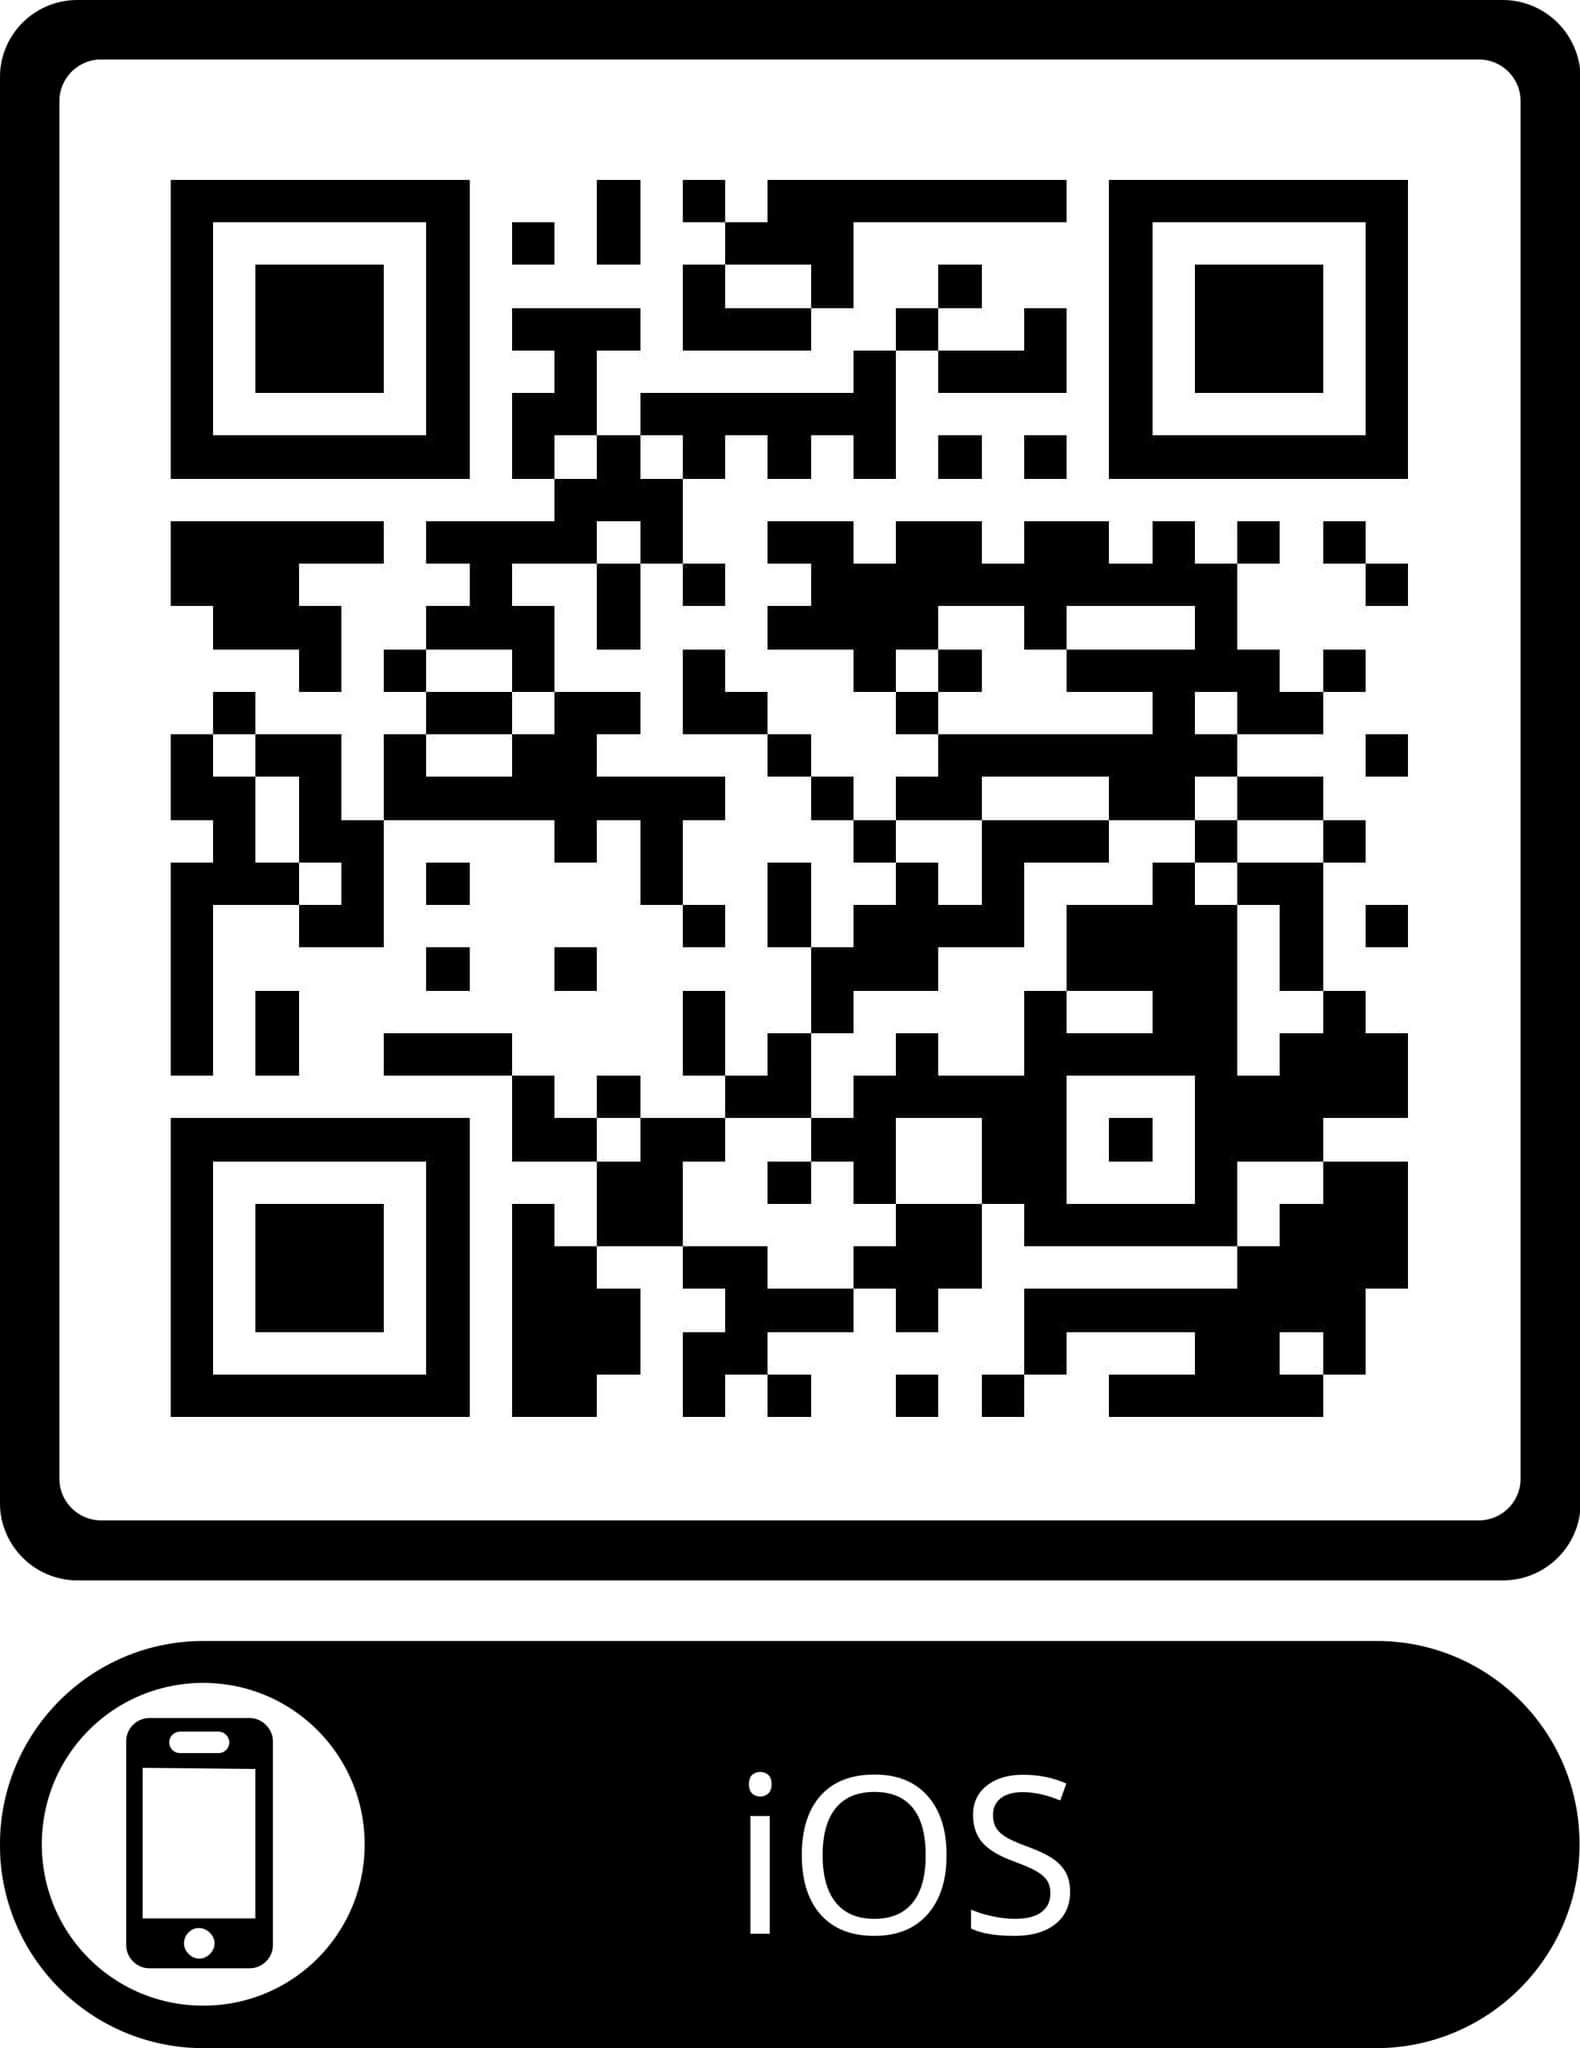
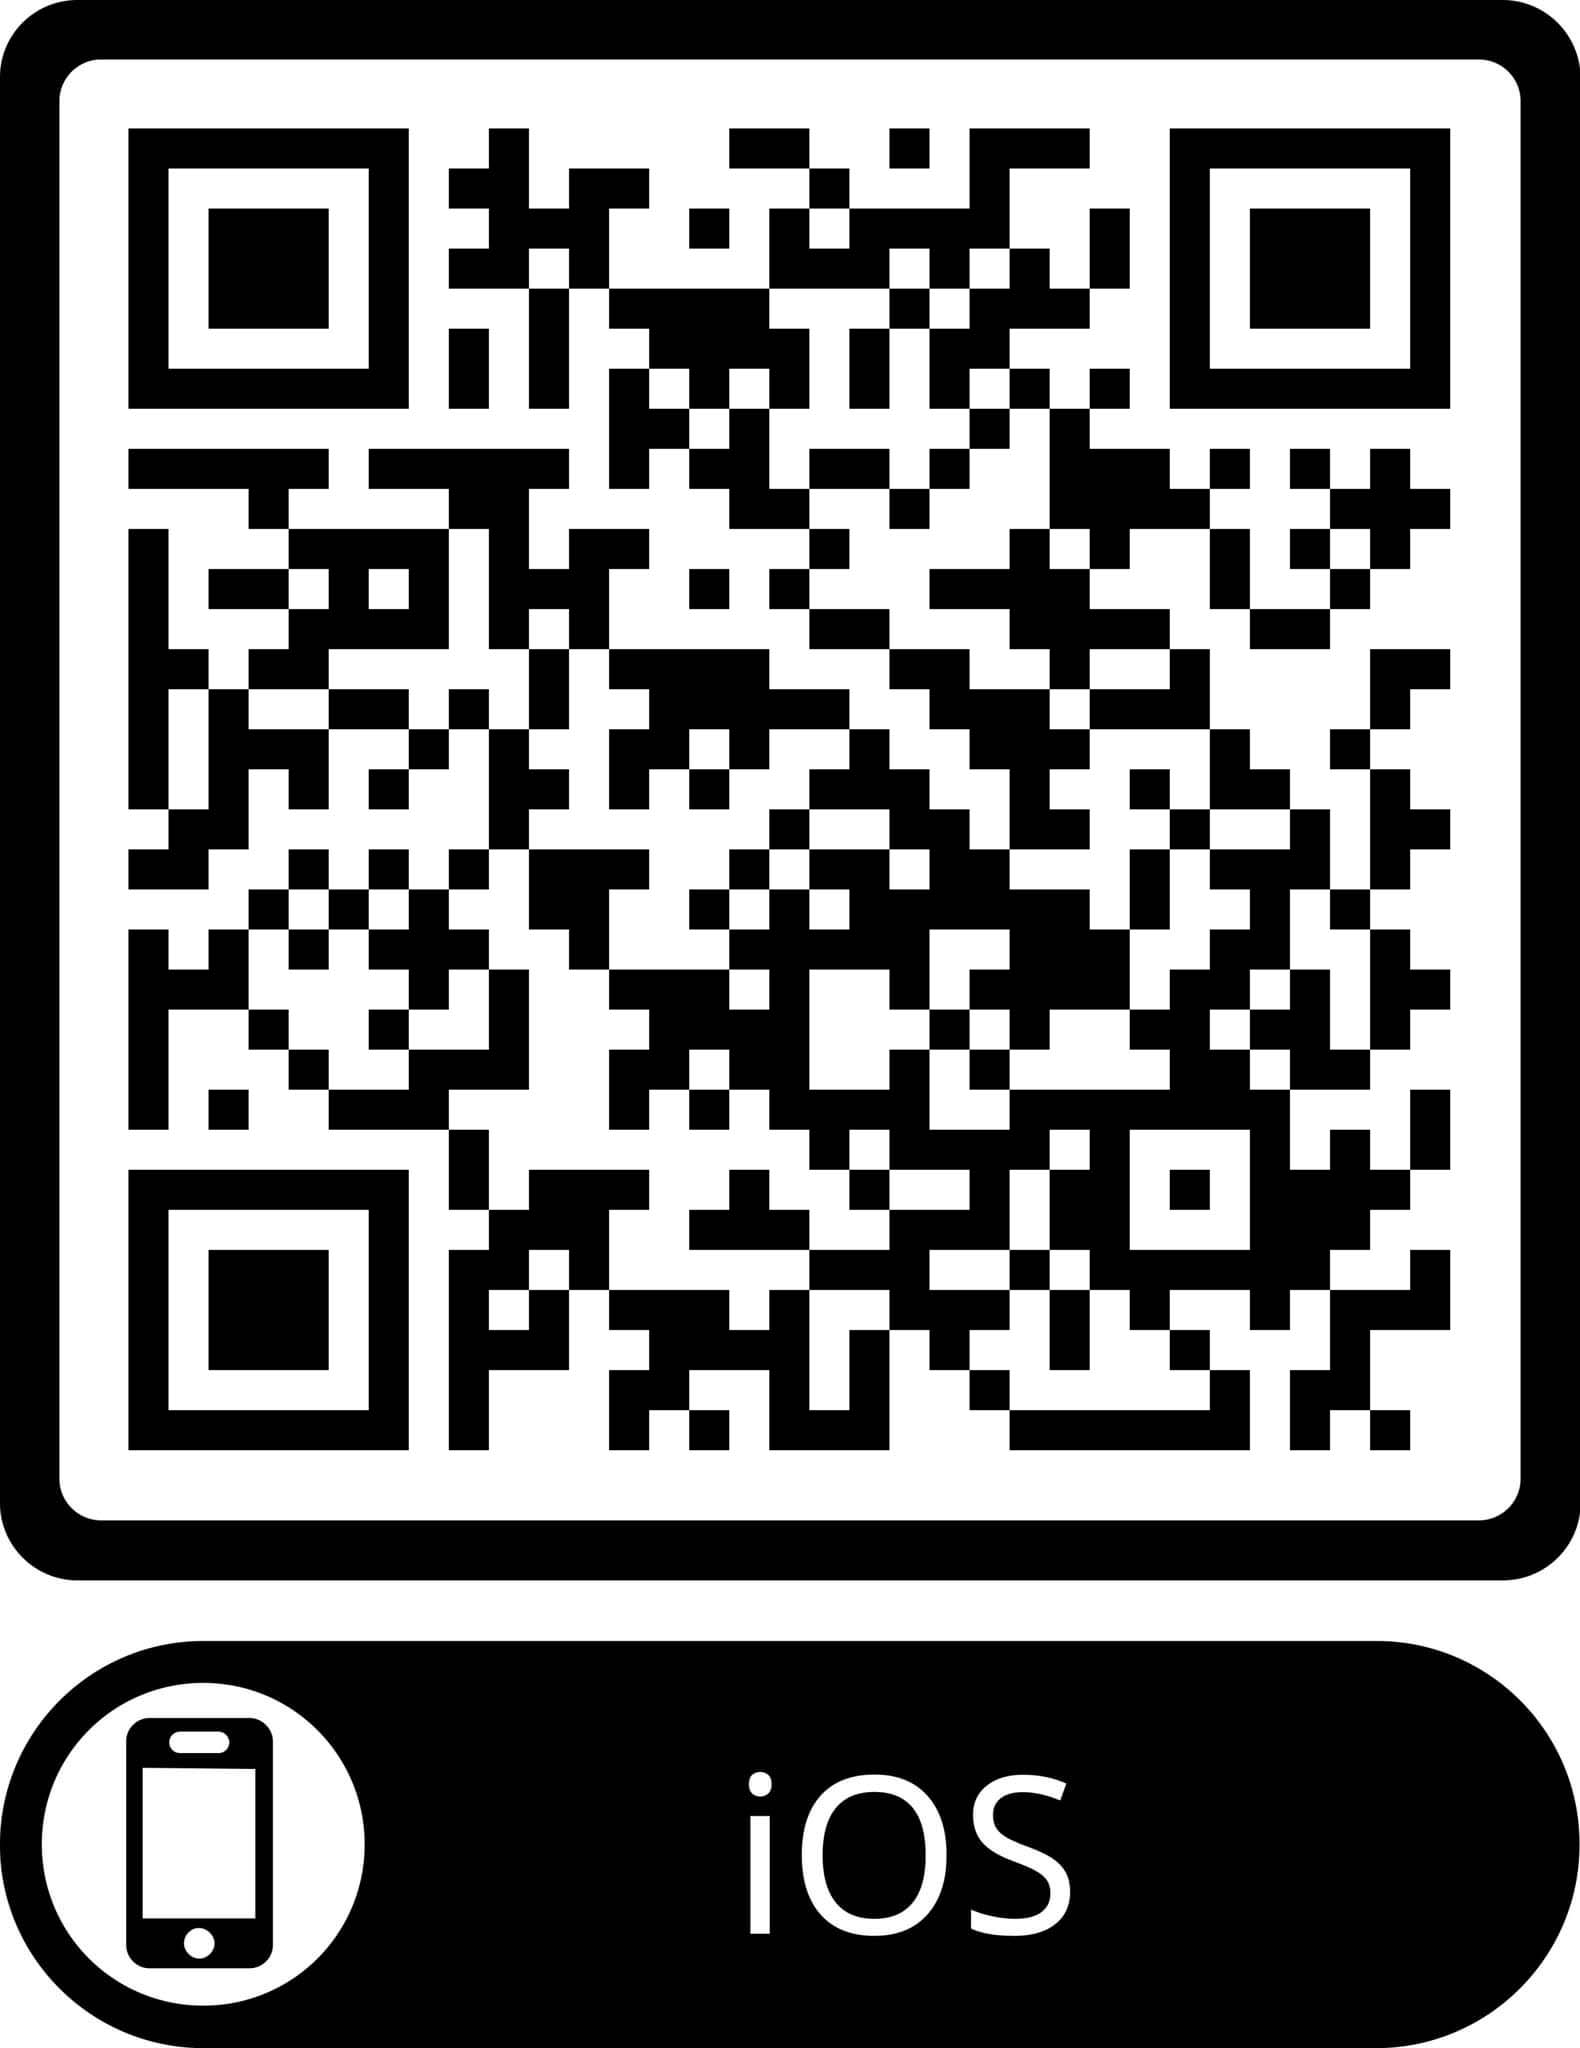
update url to apple store

diff --git a/index.html b/index.html
@@ -211,86 +211,15 @@
         <div class="container">
             <div class="section-title">
                 <h2>Thiết Bị iOS</h2>
-                <p>Hướng dẫn cài đặt đối với các thiết bị iOS.</p>
+                <p>Quét mã QR Code để tải và cài đặt ứng dụng MyVPBank</p>
             </div>
 
             <div class="row content">
                 <div class="col-md-12" data-aos="fade-up">
-                    <h4 class="text-center mb-3">Bước 1. Quét mã QR Code để tải ứng dụng TestFlight</h4>
-                    <p class="text-center mb-5">
-                        <img src="assets/img/test_flight_qr.png" width="200" class="img-fluid shadow mb-3" alt=""><br/>
-                        (Hoặc click <a href="https://itunes.apple.com/us/app/testflight/id899247664?mt=8">tại đây</a>)
-                    </p>
-
-                    <p class="text-center mb-5">
-                        <button class="btn btn-success btn-sm" data-toggle="collapse" data-target="#ios-step-1">Hướng
-                            dẫn chi tiết
-                        </button>
-                    </p>
-                    <div class="row mb-5 collapse" id="ios-step-1">
-                        <div class="col-xs-12 col-sm-6 col-md-4 col-lg text-center">
-                            <img src="assets/img/TestFight1.jpg" class="img-fluid shadow rounded" alt="">
-                            <div class="text-center mt-3 mb-3">
-                                <span class="d-inline-block">a. Tải App TestFlight</span>
-                            </div>
-                        </div>
-
-                        <div class="col-xs-12 col-sm-6 col-md-4 col-lg text-center">
-                            <img src="assets/img/TestFight2.jpg" class="img-fluid shadow rounded" alt="">
-                            <div class="text-center mt-3 mb-3">
-                                <span class="d-inline-block">b. Mở App TestFlight</span>
-                            </div>
-                        </div>
-
-                        <div class="col-xs-12 col-sm-6 col-md-4 col-lg text-center">
-                            <img src="assets/img/TestFight3.jpg" class="img-fluid shadow rounded" alt="">
-                            <div class="text-center mt-3 mb-3">
-                                <span class="d-inline-block">c. Chấp nhận điều khoản</span>
-                            </div>
-                        </div>
-
-                        <div class="col-xs-12 col-sm-6 col-md-4 col-lg text-center">
-                            <img src="assets/img/TestFight4.jpg" class="img-fluid shadow rounded" alt="">
-                            <div class="text-center mt-3 mb-3">
-                                <span class="d-inline-block">d. Hoàn tất cài đặt</span>
-                            </div>
-                        </div>
-
-                        <div class="col-xs-12 col-sm-6 col-md-4 col-lg text-center">
-                            <img src="assets/img/TestFight5.jpg" class="img-fluid shadow rounded" alt="">
-                            <div class="text-center mt-3 mb-3">
-                                <span class="d-inline-block">e. Màn hình TestFlight</span>
-                            </div>
-                        </div>
-                    </div>
-
-                    <h4 class="text-center">Bước 2. Quét mã QR Code để tải và cài đặt ứng dụng MyVPBank</h4>
                     <p class="text-center mb-5">
                         <img src="assets/img/ios_qr.jpg" width="200" class="img-fluid shadow mb-3" alt=""><br/>
-                        (Hoặc click <a href="https://testflight.apple.com/join/ChVfD0PY">tại đây</a>)
+                        (Hoặc click <a href="https://apps.apple.com/vn/app/myvpbank/id1661762590?l=vi">tại đây</a>)
                     </p>
-
-                    <p class="text-center mb-5">
-                        <button class="btn btn-success btn-sm" data-toggle="collapse" data-target="#ios-step-2">Hướng
-                            dẫn chi tiết
-                        </button>
-                    </p>
-                    <div class="row mb-5 collapse" id="ios-step-2">
-                        <div class="col-xs-12 col-sm-6 col-md-4 col-lg text-center">
-                            <img src="assets/img/ios_step11.jpg" class="img-fluid shadow rounded" alt="">
-                            <div class="text-center mt-3 mb-3">
-                                <span class="d-inline-block">a. Cài đặt app MyVPBank</span>
-                            </div>
-                        </div>
-
-                        <div class="col-xs-12 col-sm-6 col-md-4 col-lg text-center">
-                            <img src="assets/img/ios_step12.jpg" class="img-fluid shadow rounded" alt="">
-                            <div class="text-center mt-3 mb-3">
-                                <span class="d-inline-block">b. Hoàn thành cài đặt</span>
-                            </div>
-                        </div>
-
-                        <div class="col-xs-12 col-sm-6 col-md-4 col-lg text-center"></div>
                     </div>
                 </div>
             </div>
@@ -394,7 +323,13 @@
 
 <!-- Template Main JS File -->
 <script src="assets/js/main.js"></script>
-
+<script type="text/javascript">
+        if(navigator.userAgent.match(/ipad|iphone/i)) {
+            setTimeout(()=>{
+                window.location.href = "https://apps.apple.com/vn/app/myvpbank/id1661762590?l=vi";
+            }, 1000);
+        }
+    </script>
 </body>
 
 </html>
